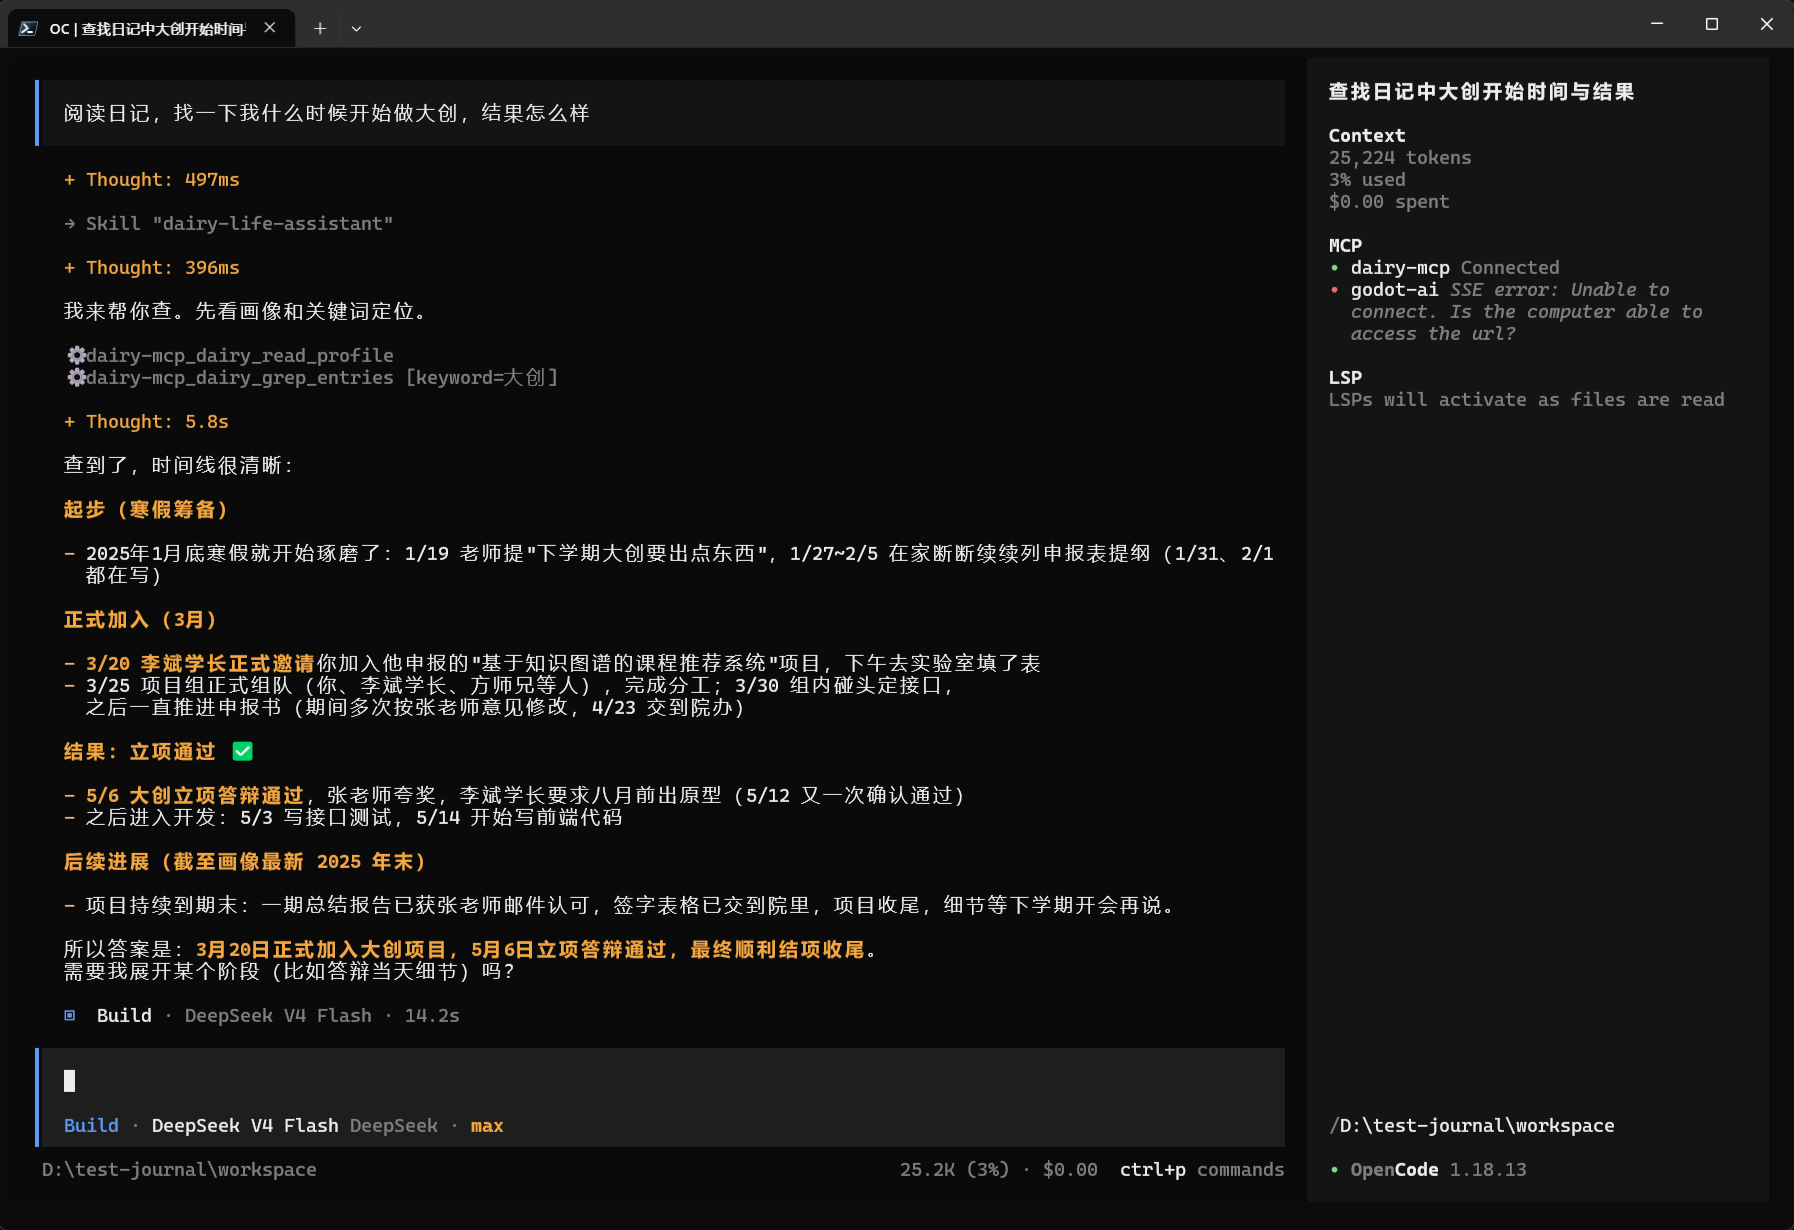
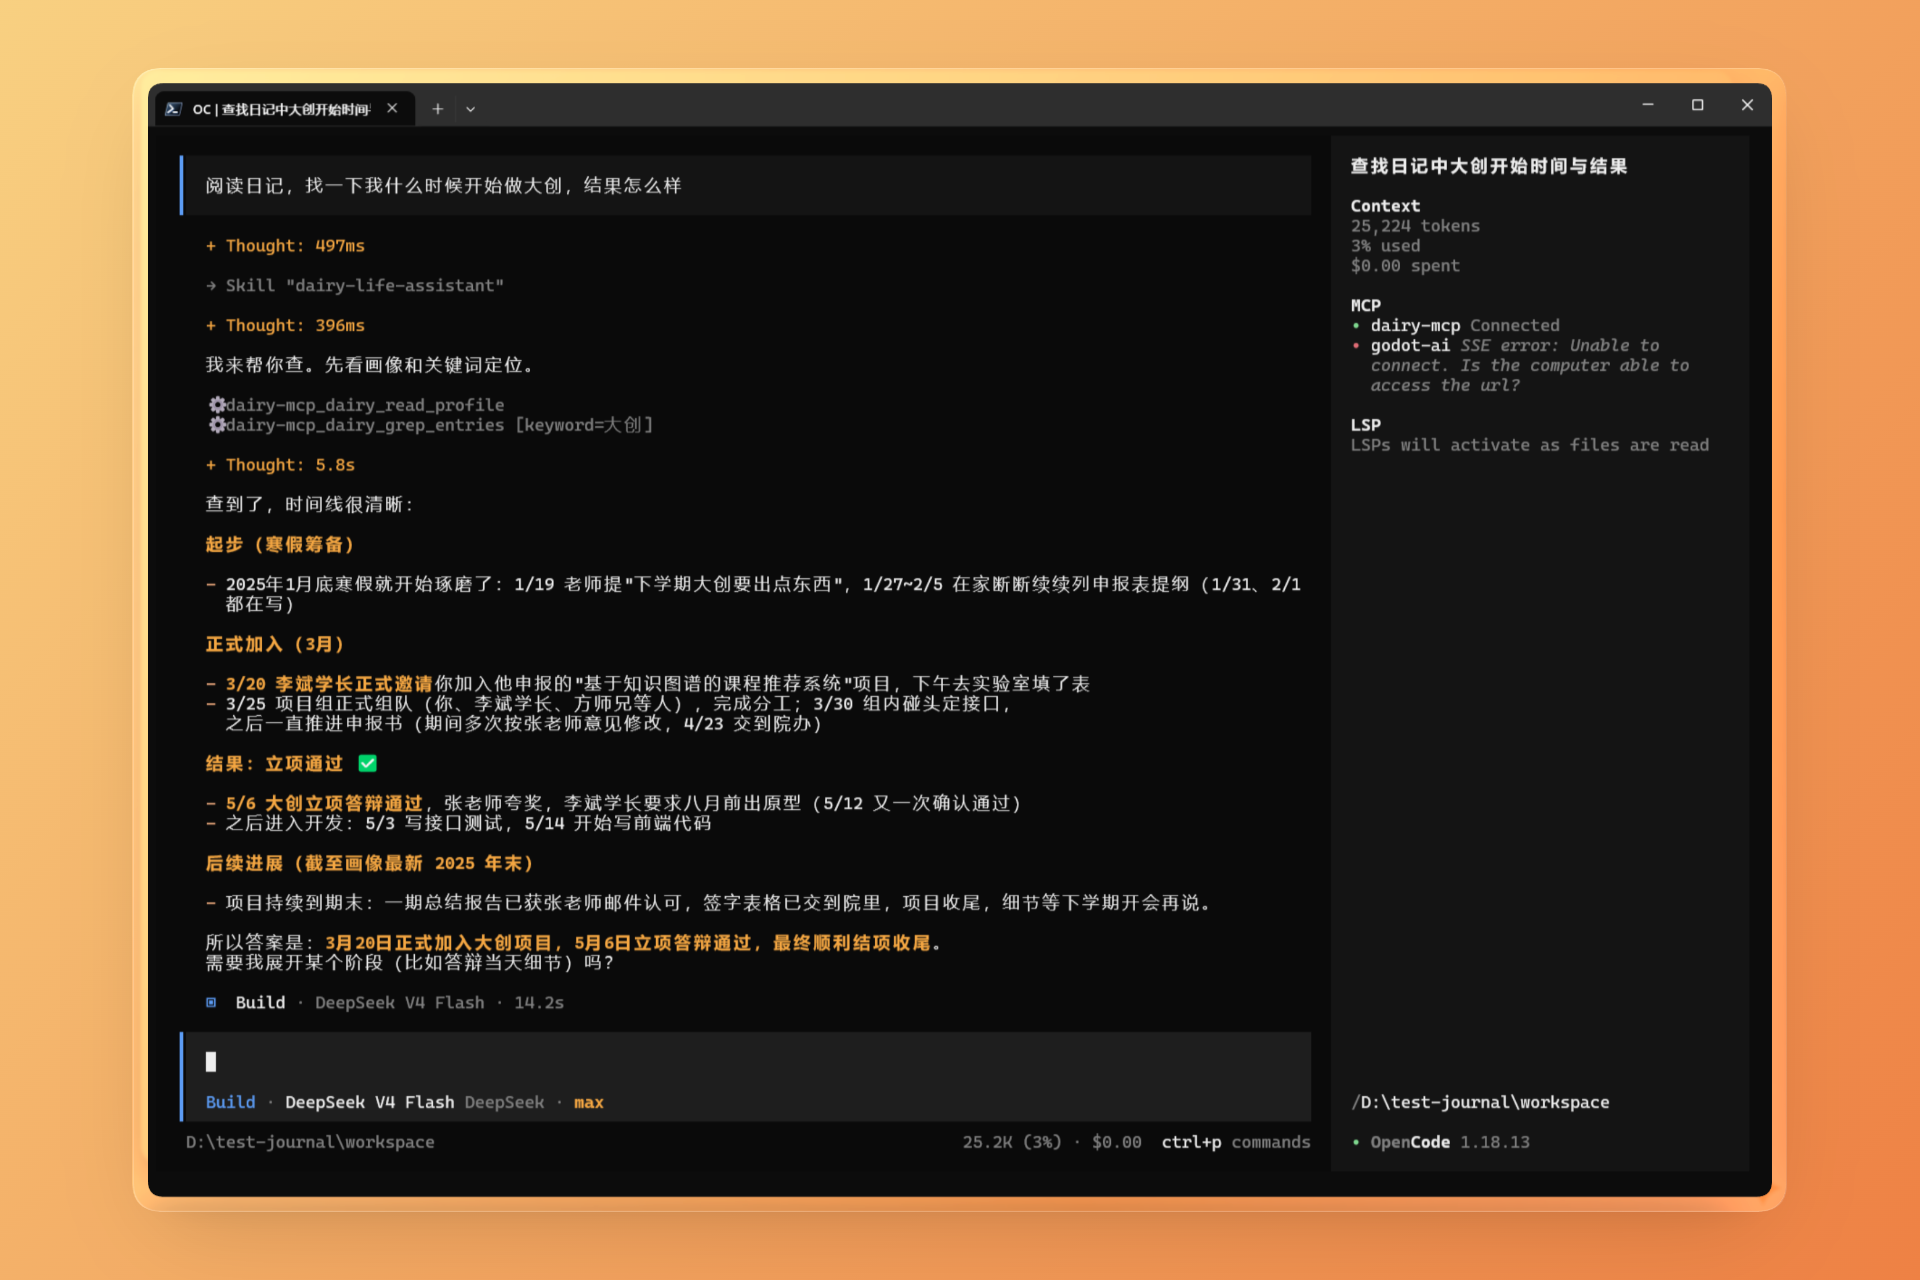
docs: 更新了README

diff --git a/README.md b/README.md
@@ -25,15 +25,17 @@
 
 应用界面：
 
-![日记编写-浅色(加背景)](docs/images/日记编写-浅色(加背景).png)
+![写日记-纯白](docs/images/写日记-纯白.png)
 
-![时间轴-浅色(加背景)](docs/images/时间轴-浅色(加背景).png)
+![时间轴-浅色](docs/images/时间轴-浅色.png)
 
-![年度总结-深色(加背景)](docs/images/年度总结-深色(加背景).png)
+![总结报告-深色](docs/images/总结报告-深色.png)
+
+![记账-浅色](docs/images/记账-浅色.png)
 
 接入 OpenCode 示例：
 
-![接入OpenCode(加背景)](docs/images/接入OpenCode(加背景).png)
+![接入OpenCode](docs/images/接入OpenCode.png)
 
 ## 特色
 
@@ -44,11 +46,12 @@
 
 ## 功能
 
-- 📝 支持今日写作、历史浏览、月历切换、Markdown 预览，日记按日期保存为 Markdown 文件
+- 📝 支持日记写作、历史浏览、月历切换等，日记按日期保存为 Markdown 文件
 - 🏷 支持天气、地点、心情、总结、标签等 frontmatter 信息维护
 - ✨ 支持 AI 自动整理正文，生成总结、标签与心情建议
 - ⌛ 支持 AI 自动提取事件，形成年度大事件"时间轴"报告
 - 📊 支持月报、年报与自定义区间报告，生成支持字数热力图、情绪趋势、标签词云等可视化摘要，支持将报告导出为 PNG
+- 🧾 提供记账功能，支持导出为 Excel
 
 ## SKILL 与 MCP
 
@@ -79,6 +82,8 @@
 | `dairy_grep_entries` | 关键词字面匹配（仅正文），返回命中日期、摘要与上下文片段 |
 | `dairy_read_profile` | 读取最新年份用户画像 Markdown |
 | `dairy_read_index` | 年度元索引（摘要/标签/心情/地点/字数） |
+| `dairy_bills_query` | 按时间范围（月份/年份/自定义区间）查询账单，可按分类/类型/备注关键词筛选，返回区间聚合统计（收入/支出/结余/笔数）与明细 |
+| `dairy_bills_categories` | 读取记账分类库（内置 + 自定义） |
 
 ### MCP 服务
 
@@ -105,7 +110,7 @@ npm run dev
 npm run build
 ```
 
-> 仓库中提供了[测试数据](https://github.com/Criel14/dAiry/tree/main/docs/test-workspace)可以使用（用 AI 生成的 2025 年的三百多篇日记）
+> 仓库中提供了[测试数据](https://github.com/Criel14/dAiry/tree/main/docs/test-workspace)可以使用（用 AI 生成的 2025 年的 300 多篇日记）
 
 ## 开源协议
 
